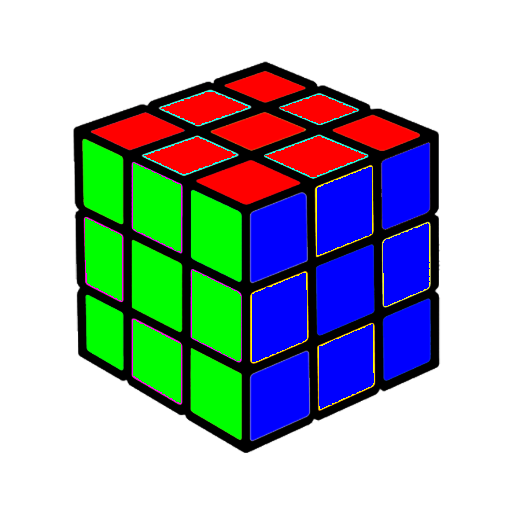
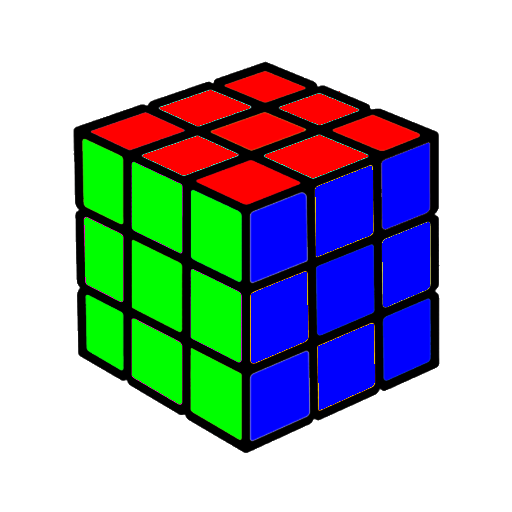
A-34

diff --git a/Image Processing/Color image processing/rubik's cube/main.py b/Image Processing/Color image processing/rubik's cube/main.py
@@ -7,16 +7,17 @@ image = cv2.imread("rubik_cube.png")
 for i in range(image.shape[0]):
     for j in range(image.shape[1]):
         b,g,r = image[i,j]
-        if b==255 and r==255 :
+        
+        if 200<=b<=255 and 200<=r<=255 :
             image[i,j] = [0, 255, 0]
 
-        if g==255 and b==255:
+        if 200<=g<=255 and 200<=b<=255:
             image[i,j] = [0,0,255]
 
-        if r==255 and g==255:
+        if 200<=r<=255 and  200<=g<=255:
             image[i,j] = [255,0,0]
         
-        if b==255 and  g==255 and r==255 :
+        if 200<=b<=255 and  200<=g<=255 and 200<=r<=255 :
             image[i,j] = [255,255,255]
     
 
